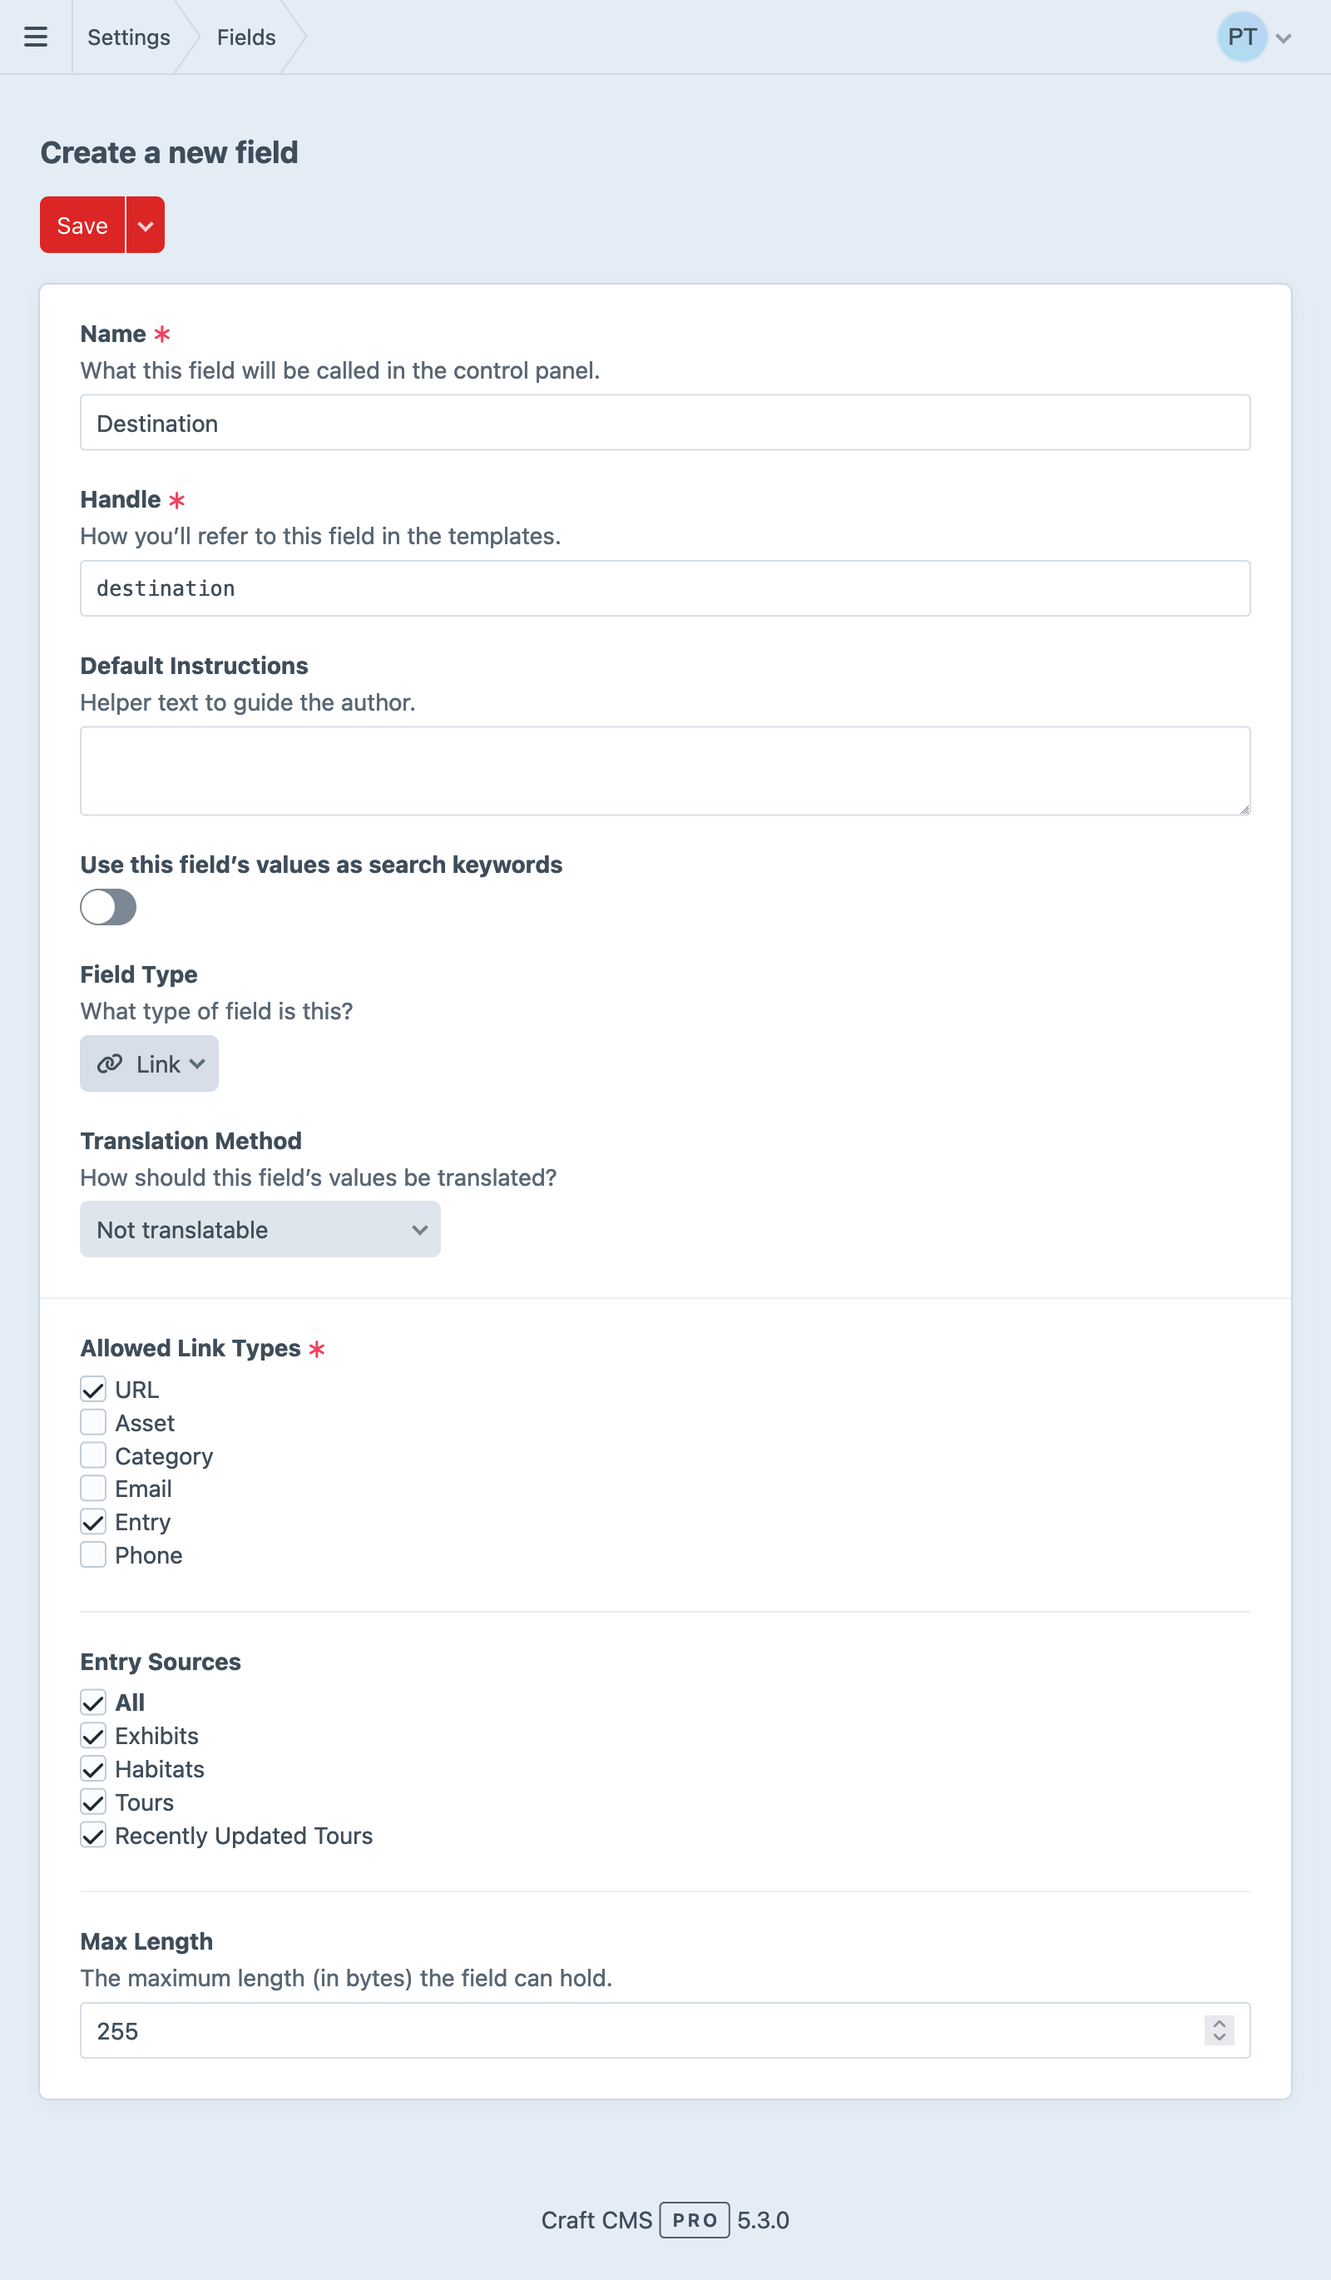
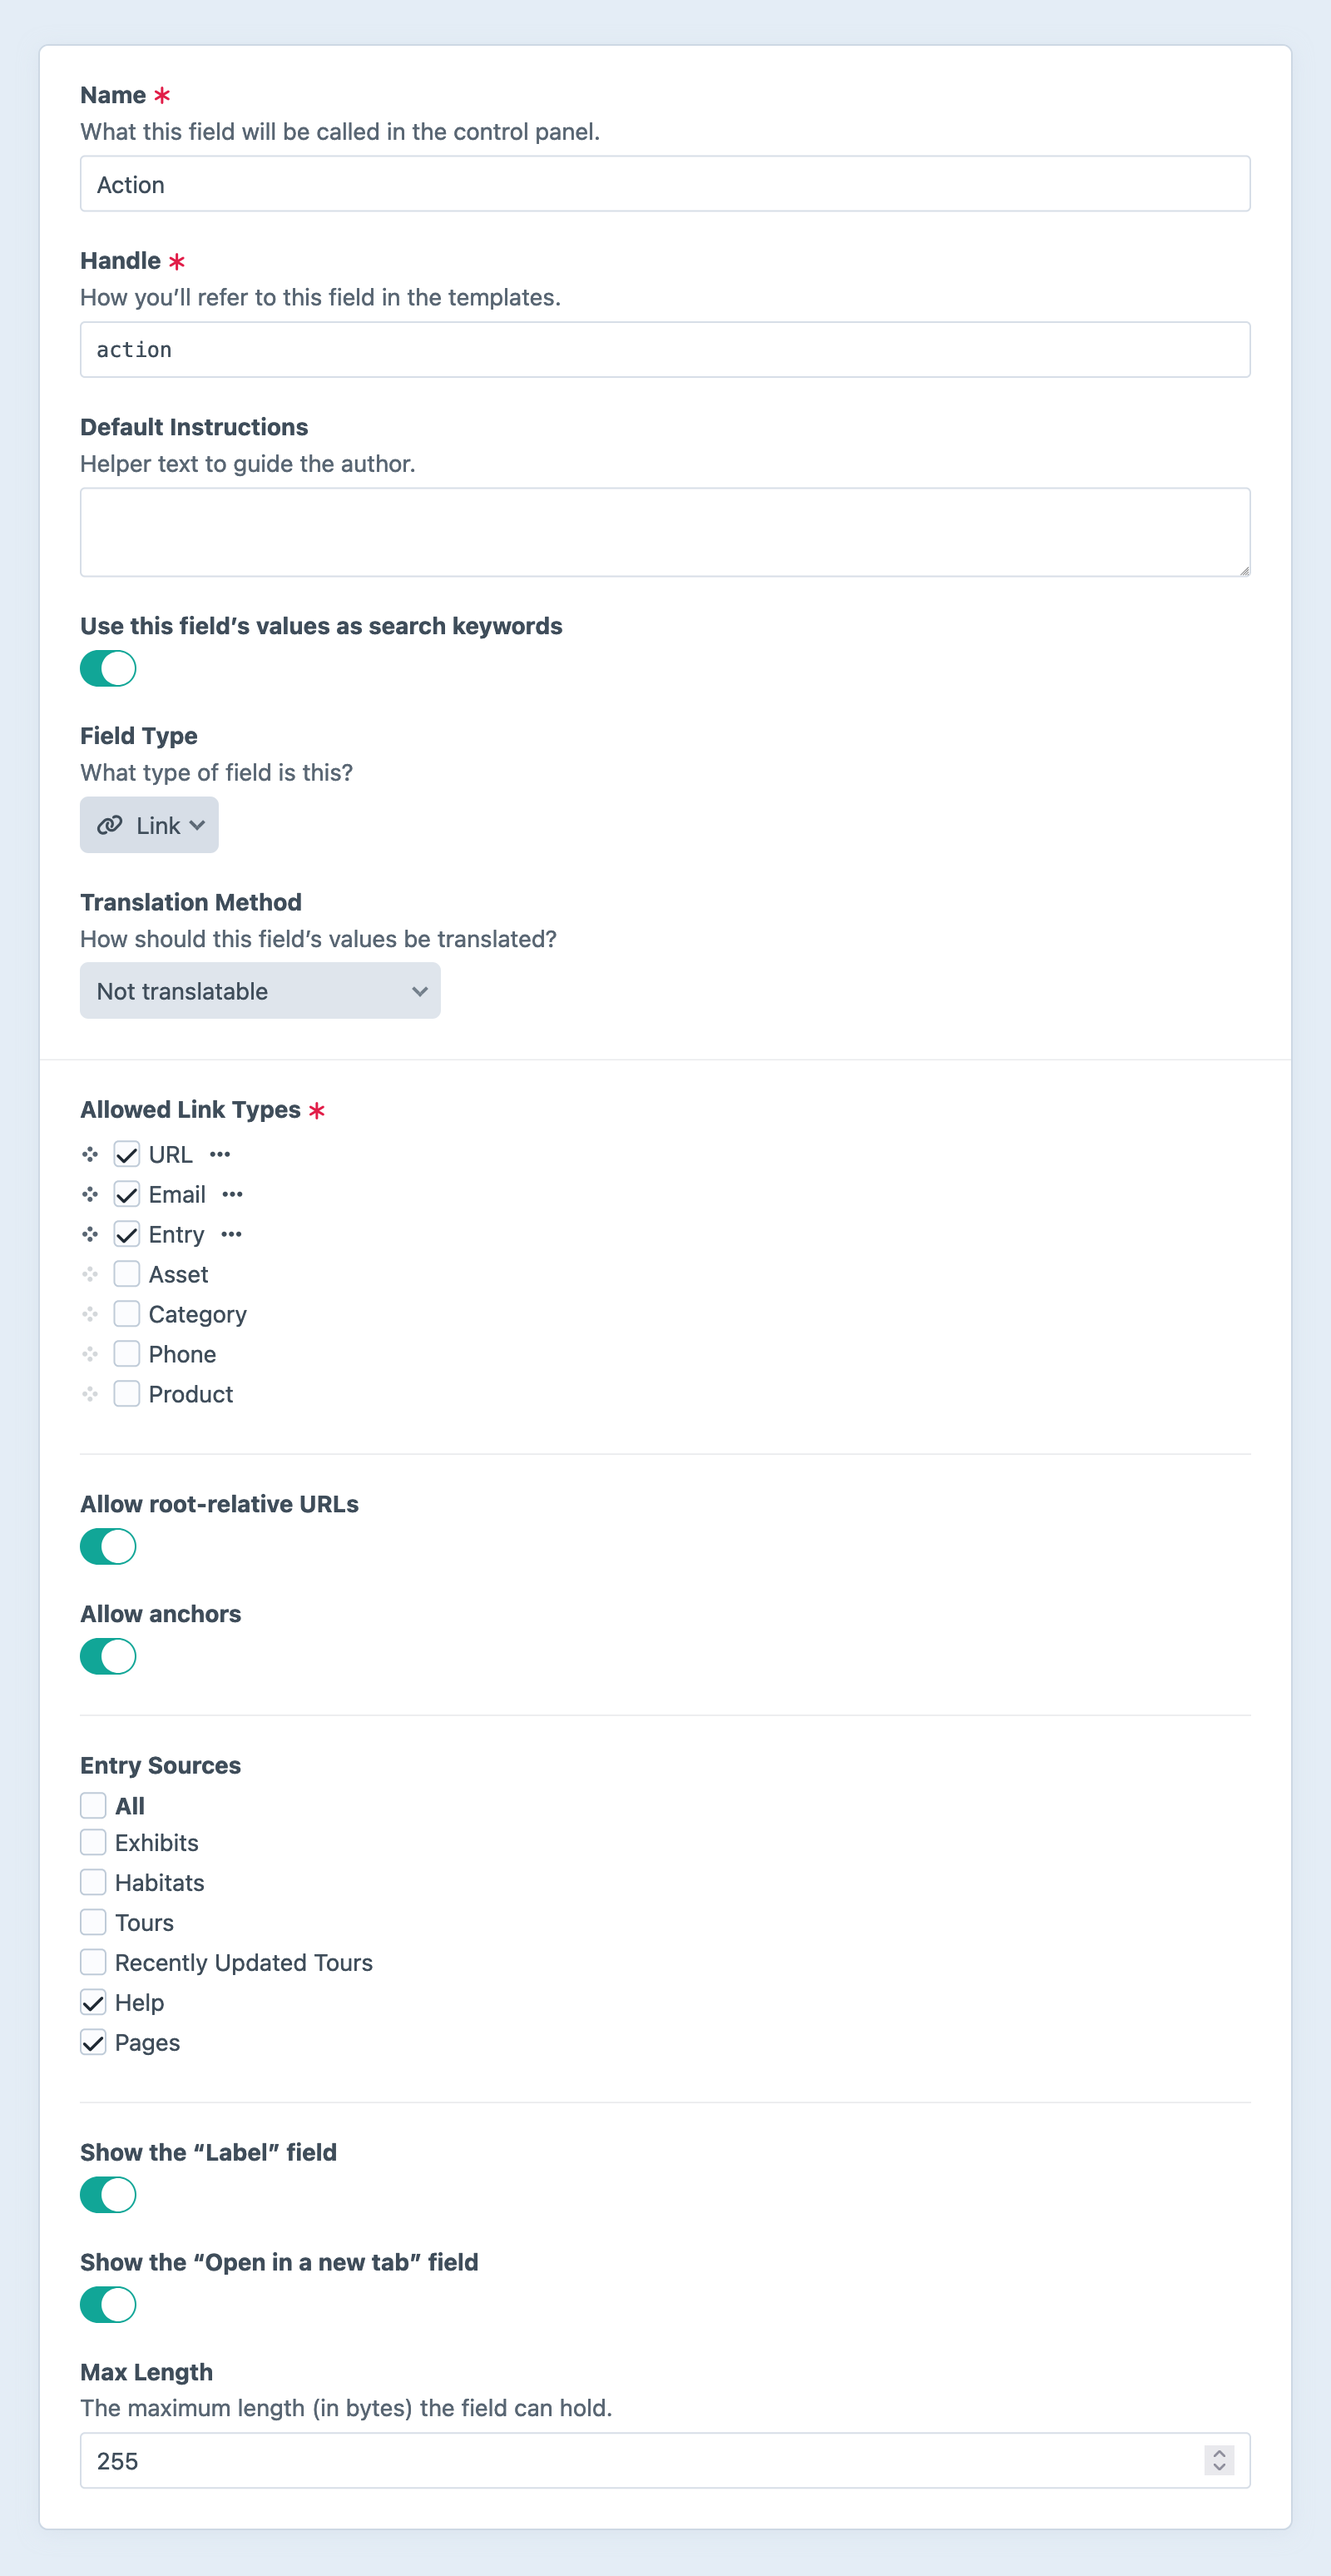
5.5: Link field enhancements

diff --git a/docs/5.x/reference/field-types/link.md b/docs/5.x/reference/field-types/link.md
@@ -2,6 +2,9 @@
 related:
   - uri: ../../system/fields.md
     label: Learn about content and custom fields
+related:
+  - uri: ../../system/relations.md
+    label: Using relationships
 ---
 
 # Link Fields <Badge text="New!" />
@@ -12,15 +15,15 @@ The link field replaced the URL field in [Craft 5.3](github:craftcms/cms/release
 
 Link fields provide a flexible way to link to on- and off-site resources, including assets, categories, entries, email addresses, phone numbers, or arbitrary URLs.
 
+<!-- more -->
+
 ![Screenshot of the link field interface in the Craft control panel](../../images/fields-link-ui.png)
 
-A link field’s value (when populated) is always suitable for use as an anchor tag’s `href` attribute:
+A populated [link field’s value](#development) is always suitable for use as an anchor tag’s `href` attribute:
 
 ```twig
-<a href="{{ supportType.action }}">{{ supportType.title }}</a>
+<a href="{{ entry.myLinkFieldHandle }}">{{ entry.myLinkFieldHandle.label }}</a>
 ```
-
-<!-- more -->
 
 ## Settings
 
@@ -35,19 +38,36 @@ A link field’s value (when populated) is always suitable for use as an anchor 
 In addition to the standard field options, Link fields have the following settings:
 
 - **Allowed Link Types** — The type of resource(s) that can be linked. Selecting more than one link type displays a dropdown menu for the author.
+
   - **URL** — The value must be a valid URL, beginning with `http://` or `https://`.
   - **Asset** — Select an [asset](../element-types/assets.md) element.
   - **Category** — Select a [category](../element-types/categories.md) element.
   - **Email** — The value is automatically prepended with `mailto:`.
   - **Entry** — Select an [entry](../element-types/entries.md) element.
   - **Phone** — The value is automatically prepended with `tel:`.
-- **Max Length** – The maximum number of characters the field can contain. (Defaults to `255`.)
 
-When selecting a link type that references elements, Craft will display a set of checkboxes that allow you to limit selection to specific [sources](../../system/elements.md#sources)—and in the case of assets, the allowable file kinds.
+  ::: tip
+  The list of available link types can be supplemented by plugins via the <craft5:craft\fields\Link::EVENT_REGISTER_LINK_TYPES> event.
+  :::
+
+- **Show the “Label” field** — Displays a dedicated field to override the default/generated link label.
+- **Show the “Open in a new tab” field** — Whether or not authors can choose to have links open in a new tab.
+- **Max Length** — The maximum number of characters the field can contain. (Defaults to `255`.)
+
+### Type-Specific Options
+
+When the _URL link type is enabled, two more options become available:
+
+- **Allow root-relative URLs** — Accepts an absolute path, without a protocol or hostname (i.e. `/give`). Relative paths are still not allowed (i.e. `donate`), as they are ambiguous in most contexts.
+- **Allow anchors** — Accepts values that contain only a fragment or hash-prefixed anchor, like `#my-heading`.
+
+When enabling a link type that references elements, Craft will display a set of checkboxes that allow you to limit selection to specific [sources](../../system/elements.md#sources)—and in the case of assets, the allowable file kinds.
 
 ## The Field
 
 Link fields have—at minimum—an input specific to the allowed type of link. If more than one link type is allowed, a dropdown menu will be shown before the field, allowing the author to switch between them and use a specialized input to define a value.
+
+When the **Show the “Label” field** setting is enabled, an additional input allows authors to customize the textual representation of the link. This input’s `placeholder` text will reflect the automatically-determined value.
 
 ## Development
 
@@ -55,41 +75,88 @@ Outputting a link field in a template will return a normalized value suitable fo
 
 ```twig
 {% if entry.myLinkFieldHandle %}
-  <h3>Link</h3>
-  {{ tag('a', {
-    text: 'Learn More',
-    href: entry.myLinkFieldHandle
-  }) }}
+  <a href="{{ entry.myLinkFieldHandle }}">Learn More</a>
 {% endif %}
 ```
+
+To output a complete anchor tag, use the `link` property:
+
+```twig
+{# You can access it a property... #}
+{{ entry.myLinkFieldHandle.link }}
+
+{# ... or call the method, directly: }
+{{ entry.myLinkFieldHandle.getLink() }}
+```
+
+The result is roughly equivalent to manually rendering the link like this:
+
+```twig
+{% set link = entry.myLinkFieldHandle %}
+
+<a href="{{ link.value }}" {% if link.target %}target="{{ link.target }}"{% endif %}>{{ link.label }}</a>
+```
+
+The text representation of a link is determined by the presence of an explicit [label](#labels-attributes), and its [type](#types).
 
 ### `LinkData`
 
-The link field returns a <craft5:craft\fields\data\LinkData> object. When used as a string, its value is intelligently coerced to something URL-like—for element links, the element’s URL; for phone links, the number prefixed with `tel:`; and so on!
+The link field returns a <craft5:craft\fields\data\LinkData> object. When used as a string, its value is intelligently coerced to something URL-like: for [element links](#elements), the element’s URL; for phone links, the number prefixed with `tel:`; and so on!
 
-You can check what type of link the author selected, or access a selected element, directly:
+The following sections cover a variety of `LinkData` features.
 
-```twig
-{% if entry.myLinkFieldHandle.type == 'entry' %}
-  {{ entry.myLinkFieldHandle.element.render() }}
-{% else %}
-  {{ entry.myLinkFieldHandle.link }}
-{% endif %}
-```
+#### Types
 
-The valid `type` values are `asset`, `category`, `email`, `entry`, `phone`, and `url`.
-
-Like elements, you can also render a complete anchor tag:
+The valid `type` values are `asset`, `category`, `email`, `entry`, `phone`, and `url`. To handle link types separately, you can test or match against `entry.myLinkFieldHandle.type`:
 
 ```twig
-{{ entry.myLinkFieldHandle.link }}
+{% switch entry.myLinkFieldHandle.type %}
+  {% case 'phone' %}
+    <span class="icon icon-phone"></span> {{ entry.myLinkFieldHandle.label }}
+  {% case 'email' %}
+    <span class="icon icon-email"></span> {{ entry.myLinkFieldHandle.link }}
+  {% default %}
+    {{ entry.myLinkFieldHandle.link }}
+{% endswitch %}
 ```
 
-Craft will figure out the best textual representation of the link—a selected element’s `title`, the URL (sans protocol), or the raw phone number, for example. That text—or `label`—can be retrieved via the `LinkData` model, in addition to the raw `value`:
+#### Elements
+
+Links to assets, categories, and entries contain a reference to the selected element:
+
+```twig
+{{ entry.myLinkFieldHandle.element.render() }}
+```
+
+In this example, we’re outputting the associated [element partial](../../system/elements.md#element-partials)—but you can use the element (and its properties and fields) however you wish.
+
+#### Labels + Attributes <Since ver="5.5.0" feature="Link labels and targets" />
+
+Enable the **Show the “Label” field** option to allow authors to provide custom labels for links.
+
+When a label is _not_ explicitly defined, Craft will figure out the best textual representation for the link—the selected element’s `title`, the URL (sans protocol), or the raw phone number, for example. That text—or `label`—can be retrieved via the `LinkData` model, in addition to the raw `value`:
 
 ```twig
 <a href="{{ entry.myLinkFieldHandle.value }}">{{ entry.myLinkFieldHandle.label }}</a>
 ```
+
+This is the default behavior when using a link’s `link` property. Craft also automatically includes the `target` attribute when rendering a link, if the **Open in a new tab** option is available (and enabled) for the field. You can access this manually via the `target` property:
+
+```twig
+{% set link = entry.myLinkFieldHandle %}
+
+{{ tag('a', {
+  href: link.value,
+  target: link.target,
+  rel: link.target == '_blank' ? 'noopener noreferrer' : null,
+}, link.label) }}
+
+{# ...produces output like... #}
+
+<a href="https://custom-url.com/page" target="_blank" rel="noopener noreferrer">custom-url.com</a>
+```
+
+When the **Open in a new tab** option is _off_, the `target` attribute is omitted.
 
 ### Relations
 
